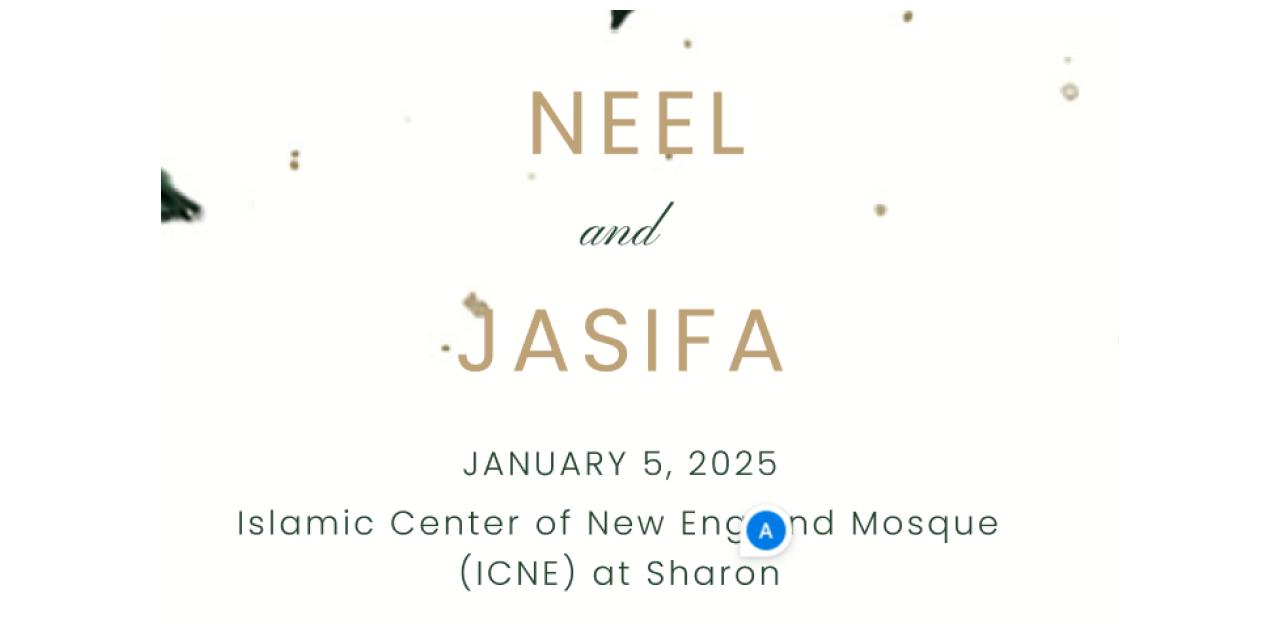
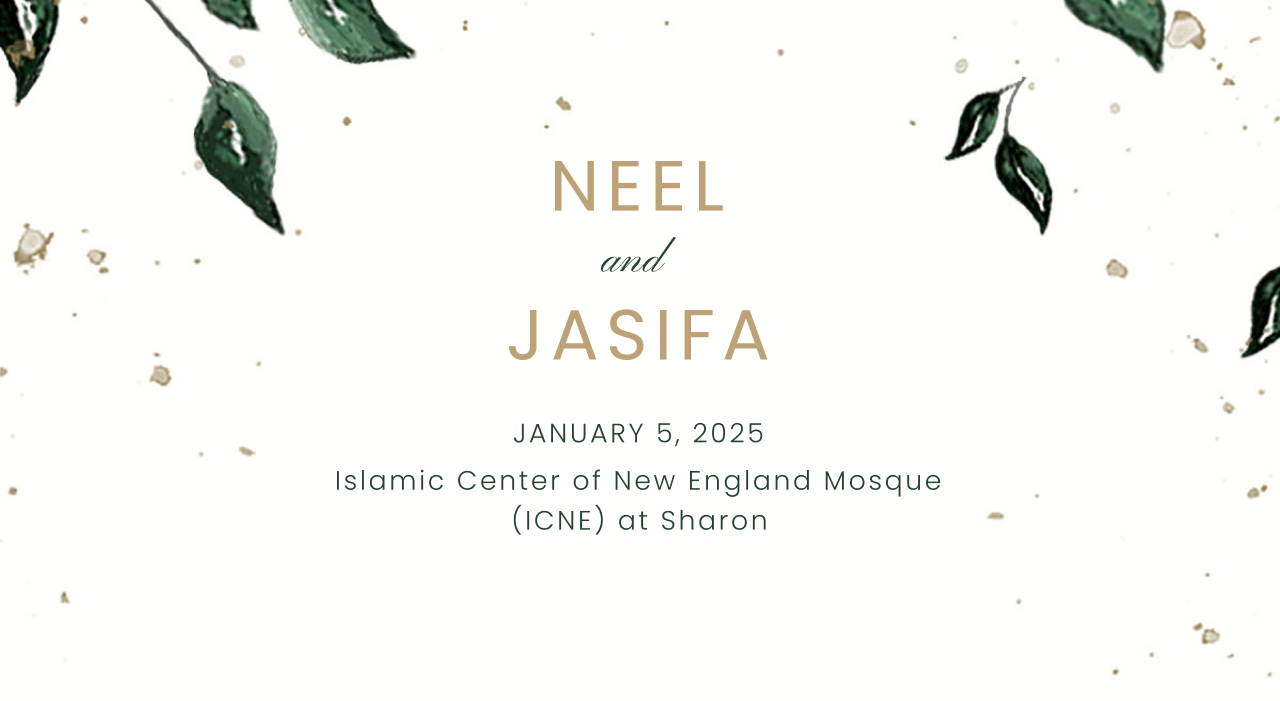
updated og image fixed rsvp fixed spelling

diff --git a/components/ReservationForm.tsx b/components/ReservationForm.tsx
@@ -14,8 +14,9 @@ import { Input } from "@/components/ui/input";
 import { Label } from "@/components/ui/label";
 import { send } from "emailjs-com";
 import Swal from "sweetalert2";
-import { ToastContainer, toast } from "react-toastify";
-import "react-toastify/dist/ReactToastify.css";
+import { DialogClose } from "@radix-ui/react-dialog";
+//import { ToastContainer, toast } from "react-toastify";
+// import "react-toastify/dist/ReactToastify.css";
 
 type EmailFormType = {
   name: string;
@@ -75,7 +76,7 @@ const ReservationForm = () => {
         .then((response) => {
           setLoading(false);
           setConfrimFlag(true);
-          toast("Wow so easy!");
+          //toast("Wow so easy!");
           Swal.fire({
             icon: "success",
             text: "Thank you for submitting your RSVP. Best regards!",
@@ -232,13 +233,17 @@ const ReservationForm = () => {
                   Sending...
                 </button>
               ) : (
-                <button
-                  type="submit"
-                  // onClick={handleSubmit}
-                  className="text-white bg-primary   font-medium  text-base w-full rounded  cursor-pointer px-5 py-2 xl:py-3 text-center"
-                >
-                  Submit
-                </button>
+                <DialogFooter className="text-center place-self-center">
+                  <DialogClose>
+                    <button
+                      type="submit"
+                      // onClick={handleSubmit}
+                      className="text-white bg-primary   font-medium  text-base w-44 rounded  cursor-pointer px-5 py-2 xl:py-3 text-center"
+                    >
+                      Submit
+                    </button>
+                  </DialogClose>
+                </DialogFooter>
               )}
             </form>
           </div>

diff --git a/components/ui/dialog.tsx b/components/ui/dialog.tsx
@@ -21,7 +21,7 @@ const DialogOverlay = React.forwardRef<
   <DialogPrimitive.Overlay
     ref={ref}
     className={cn(
-      "fixed inset-0 z-50 bg-white/80  data-[state=open]:animate-in data-[state=closed]:animate-out data-[state=closed]:fade-out-0 data-[state=open]:fade-in-0 ",
+      "fixed inset-0 z-40 bg-white/80  data-[state=open]:animate-in data-[state=closed]:animate-out data-[state=closed]:fade-out-0 data-[state=open]:fade-in-0 ",
       className
     )}
     {...props}
@@ -38,7 +38,7 @@ const DialogContent = React.forwardRef<
     <DialogPrimitive.Content
       ref={ref}
       className={cn(
-        "fixed bg-primary left-[50%] top-[50%] z-50 grid max-w-lg translate-x-[-50%] translate-y-[-50%] gap-4 border bg-background p-6 shadow-lg  data-[state=open]:animate-in data-[state=closed]:animate-out data-[state=closed]:fade-out-0 data-[state=open]:fade-in-0   data-[state=closed]:slide-out-to-left-1/2 data-[state=closed]:slide-out-to-top-[48%] data-[state=open]:slide-in-from-left-1/2 data-[state=open]:slide-in-from-top-[48%] sm:rounded-lg transition-all duration-500 ease-in-out border-primary w-[400px] md:w-full",
+        "fixed bg-primary left-[50%] top-[50%] z-40 grid max-w-lg translate-x-[-50%] translate-y-[-50%] gap-4 border bg-background p-6 shadow-lg  data-[state=open]:animate-in data-[state=closed]:animate-out data-[state=closed]:fade-out-0 data-[state=open]:fade-in-0   data-[state=closed]:slide-out-to-left-1/2 data-[state=closed]:slide-out-to-top-[48%] data-[state=open]:slide-in-from-left-1/2 data-[state=open]:slide-in-from-top-[48%] sm:rounded-lg transition-all duration-500 ease-in-out border-primary w-[400px] md:w-full",
         className
       )}
       {...props}

diff --git a/config/cardData.js b/config/cardData.js
@@ -13,9 +13,9 @@ const cardData = [
     id: 2,
     title: "Best Man",
     image: "/Mask group (1).png",
-    name: "Tahmid AArabeed",
+    name: "Tahmid ArAbeed",
     description:
-      "Meet AArabeed, my best man, is my lifelong confidant since USF. Known for his unwavering morals and values, he’s the steady force in my life. Always in his signature hoodie, he’s approachable and kind. A phenomenal chef, his meals bring people together, making every moment with him unforgettable. A true family.",
+      "Meet ArAbeed, my best man, is my lifelong confidant since USF. Known for his unwavering morals and values, he’s the steady force in my life. Always in his signature hoodie, he’s approachable and kind. A phenomenal chef, his meals bring people together, making every moment with him unforgettable. A true family.",
   },
   {
     id: 3,
